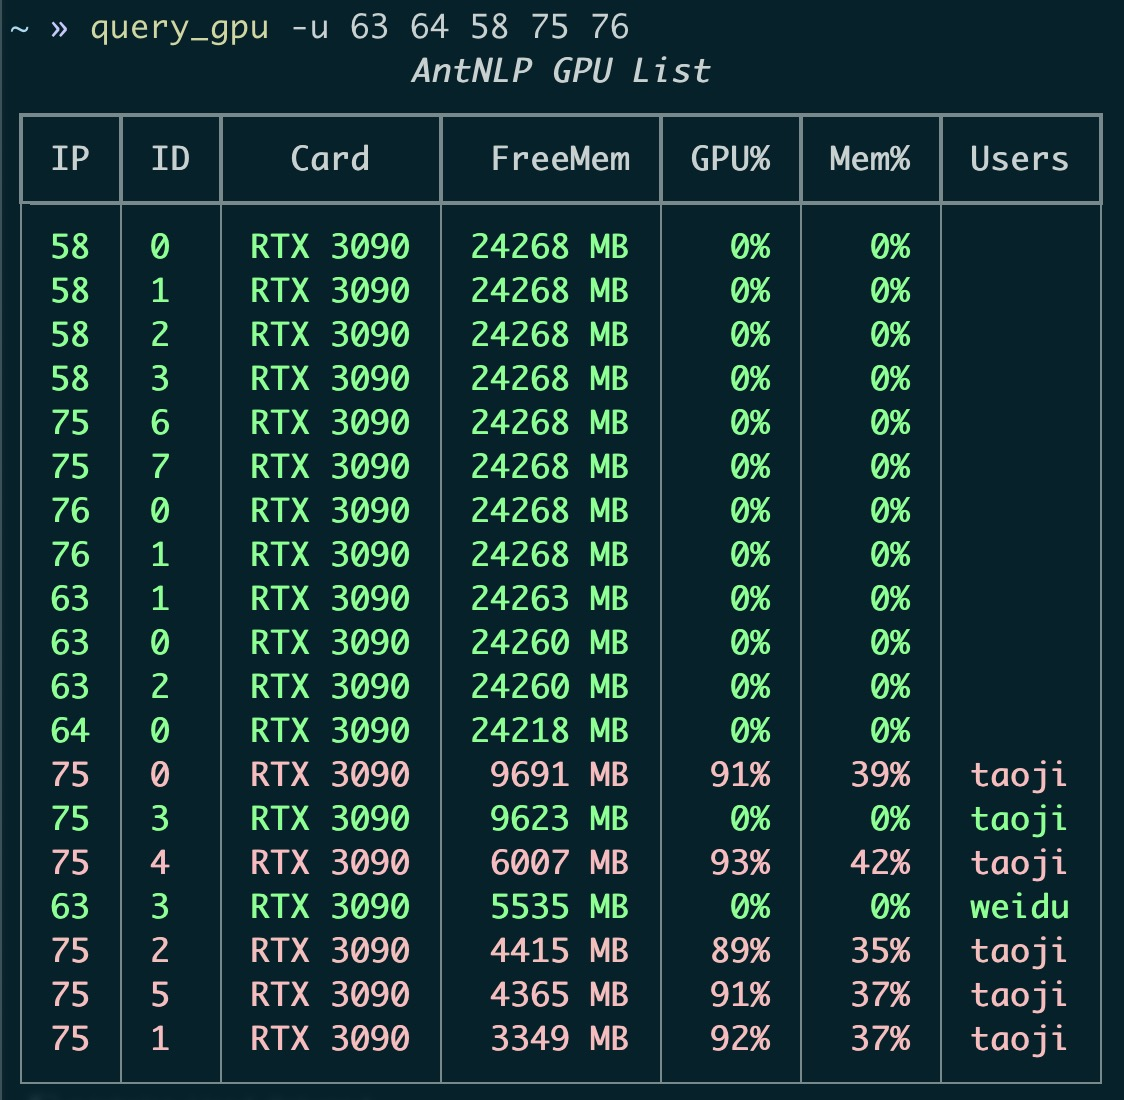
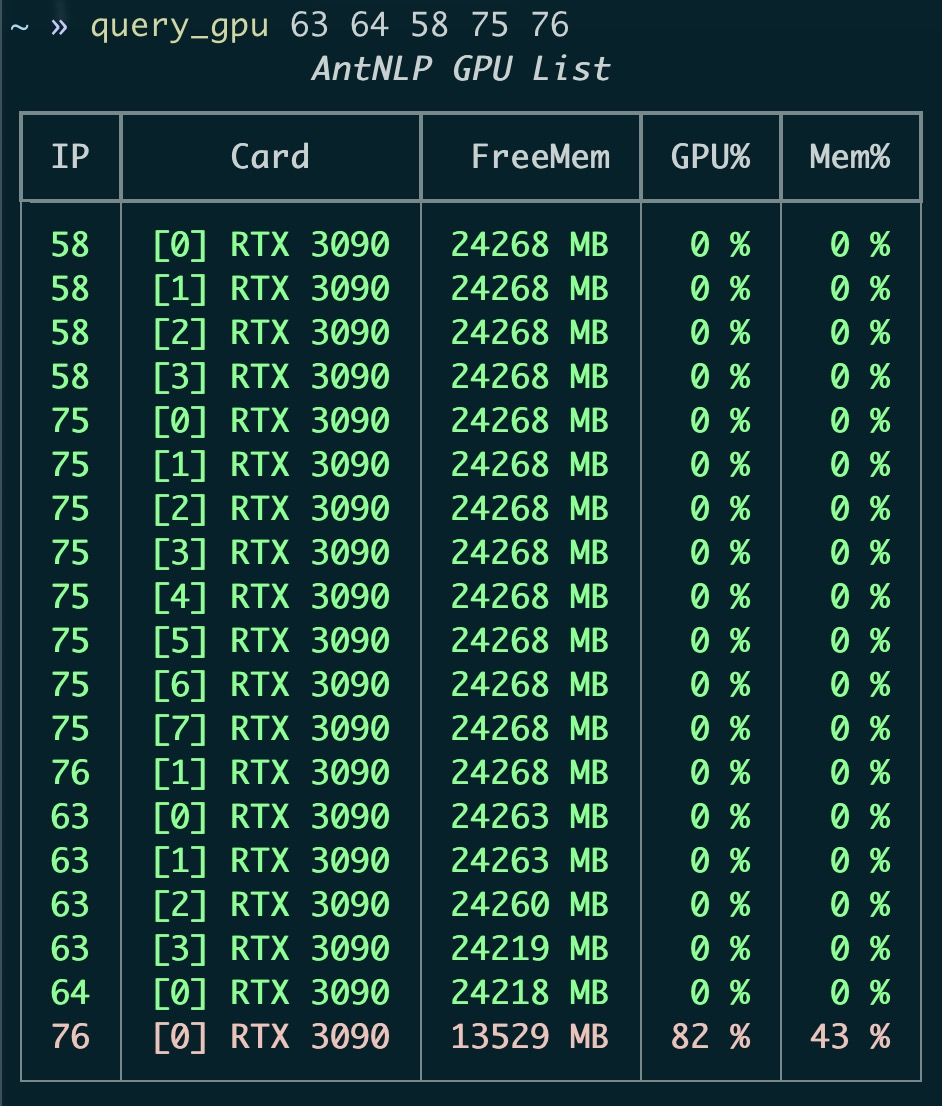
refactor: update example_figure & README

Changed region(s): [[0.0, 0.0, 0.9851, 0.9891]]

diff --git a/query-gpu/README.md b/query-gpu/README.md
@@ -6,26 +6,25 @@
 + 可选参数 `-u` 显示每张显卡的用户（支持多个）
 
 
-示例1：
+示例1，默认显示：
 
 ```shell
 query_gpu host1 host2 ...
 ```
-![example-image](example_linux.jpeg)
+![example-image](example_mac.jpg)
 
-示例2，额外显示用户信息（可能使查询变慢）：
+示例2，额外显示用户信息：
 
 ```shell
 query_gpu -u host1 host2 ...
 ```
-![example-image](example_mac.jpg)
+![example-image](example_linux.jpeg)
 
 
 列名    | 含义
 :-------| :--- 
 IP      | 服务器IP别名
-ID      | GPU ID (0, 1, 2, ...)
-Card    | 显卡名称
+Card    | GPU ID ([0], [1] ...) + 显卡名称
 FreeMem | 空闲显存 MB (降序排序关键字)
 GPU%    | GPU 当前算力占用百分比
 Mem%    | GPU 当前显存占用百分比
